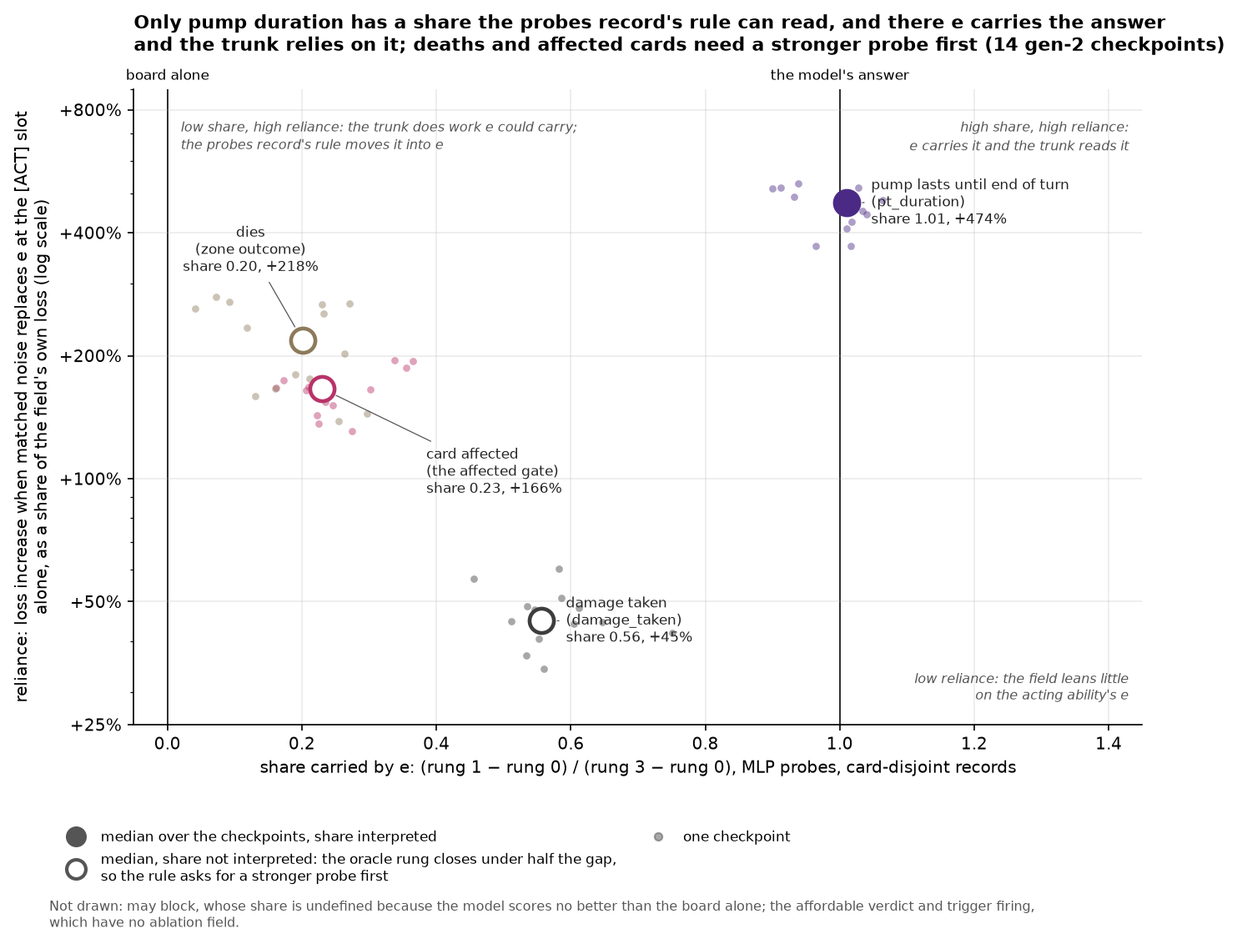
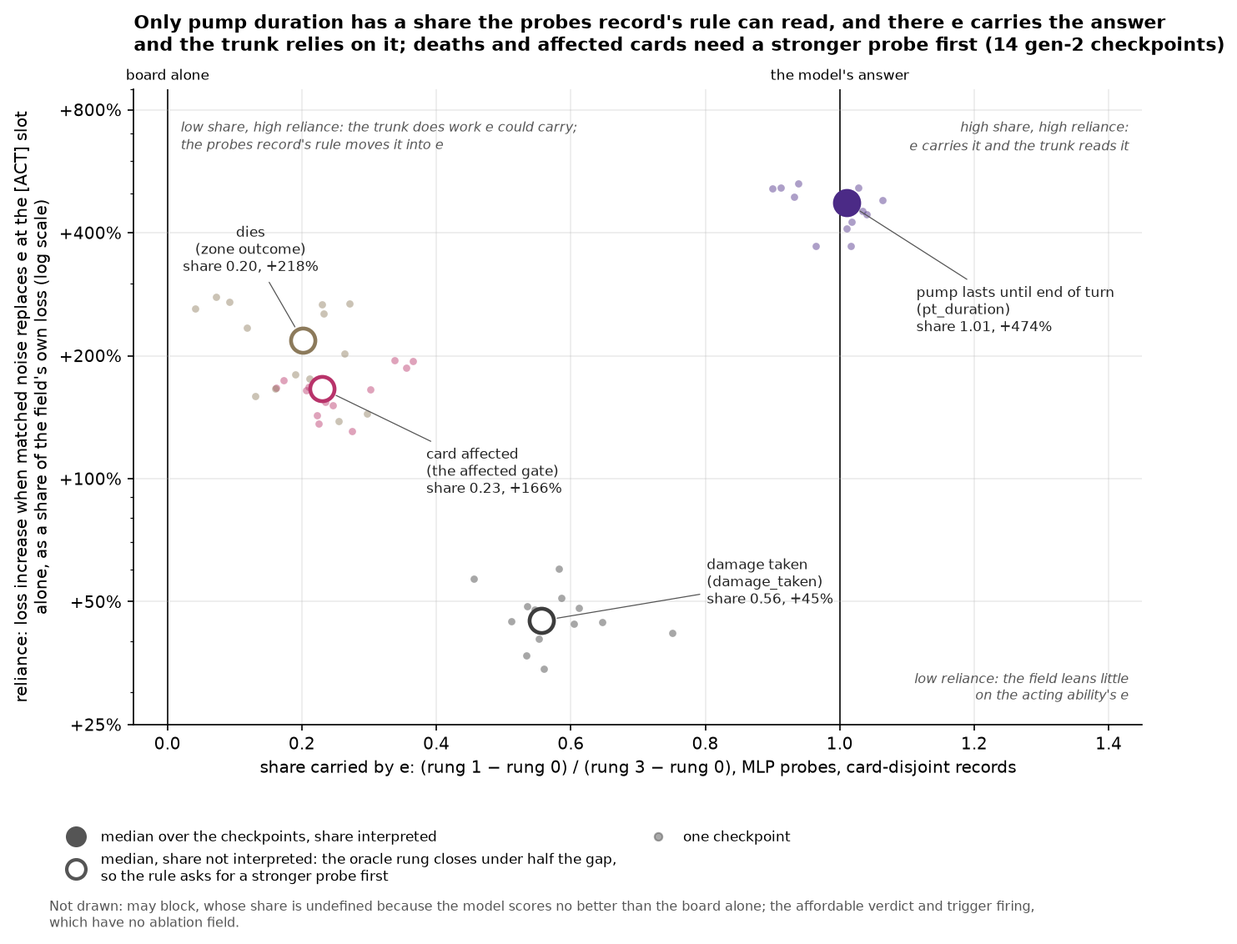
docs(effects-probes): fold the redrawn and new charts into the probes record
Captions and alt text of e-over-random, probe-ladder, evasion-grid,
target-flips, board-abilities and line-properties describe what the
redrawn charts draw; the chart key explains the fixed row heights of the
strip plots. The share-vs-reliance chart is embedded in the gen-3 section,
its caption saying why the legal-target and verdict-head questions are
absent, and its pump-duration and damage-taken labels move clear of the
checkpoint dots. The e-over-random and target-flip bullets now read off
the charts' new quantities.

Changed region(s): [[0.4653, 0.5875, 0.6824, 0.6802], [0.7134, 0.1855, 0.8685, 0.2473], [0.7444, 0.3092, 0.8375, 0.371]]

diff --git a/scripts/effect_gen2_report/make_charts.py b/scripts/effect_gen2_report/make_charts.py
@@ -2817,7 +2817,9 @@ SHARE_RELIANCE = [("pt_until_end_of_turn", "pt_duration", "pump lasts until end 
 
 
 #: Label offsets in points for the crowded medians: ``(dx, dy, ha)``.
-SHARE_LABEL_OFFSETS = {"dies": (-30, 52, "center"), "affected": (60, -48, "left")}
+SHARE_LABEL_OFFSETS = {"dies": (-30, 52, "center"), "affected": (60, -48, "left"),
+                       "pt_until_end_of_turn": (40, -62, "left"),
+                       "damage_taken": (95, 22, "left")}
 
 
 def share_vs_reliance() -> None:

diff --git a/experiments/2026-09-19-effect-knowledge-probes-design.md b/experiments/2026-09-19-effect-knowledge-probes-design.md
@@ -62,7 +62,7 @@ Continuation runs carry each arm with copies further. An A run resumes its arm a
 
 A probe is scored by AUC for a yes/no question, the chance that a true case scores above a false one, so 0.5 is chance. An amount is scored by R², the share of its variance the prediction explains, where 0 is no better than predicting the amount's mean.
 
-The charts share one key. Colour gives the width of `e`: blue 64, orange 128, green 256. A point's marker gives the stage, a triangle for an arm, a square for an A run and a circle for a B run. A curve's style gives it too, dotted for an arm, dashed for an A run and solid for a B run. A filled marker is a run's kept epoch and a hollow one its last; `B256 best` is half filled. The arms without copies are grey triangles, `e64 (earlier inputs)` a lighter grey, and gen-1 dark grey.
+The charts share one key. Colour gives the width of `e`: blue 64, orange 128, green 256. A point's marker gives the stage, a triangle for an arm, a square for an A run and a circle for a B run. A curve's style gives it too, dotted for an arm, dashed for an A run and solid for a B run. A filled marker is a run's kept epoch and a hollow one its last; `B256 best` is half filled. The arms without copies are grey triangles, `e64 (earlier inputs)` a lighter grey, and gen-1 dark grey. In a chart with one row per question, each checkpoint sits at its own fixed height within the row, the earliest stage on top; the height carries no value.
 
 ### The read-out ladder asks one question of six inputs, from the board alone to the model's own answer
 
@@ -135,7 +135,7 @@ On two board questions `e` carries the answer: how long a pump lasts and whether
 
 ![The read-out ladder for nine board questions: each rung's median and range, and each checkpoint's share with the random-vector and oracle shares marked, rows where the share is not interpreted shaded](2026-09-18-effect-model-gen2/charts/probe-ladder.png)
 
-*(a) Each rung's median over the 14 checkpoints with copies, card-disjoint records; the stroke spans the checkpoints. Yes/no questions are scored by AUC, damage taken by R² on its own axis. (b) Each checkpoint's share carried by `e`, in the shared key; the grey tick marks the median share a random vector of `e`'s width closes, and the hollow purple diamond the median share the oracle rung closes. Shaded rows are the questions whose share is not interpreted. May block has no share, because the model's answer scores no better than the board alone. Data: `probe_ladder.csv`.*
+*(a) Each rung's median over the 14 checkpoints with copies, card-disjoint records, drawn as the rung's own name; the stroke spans the checkpoints. Yes/no questions are scored by AUC, damage taken by R² on its own axis. (b) Each checkpoint's share carried by `e`, in the shared key. The grey tick labelled 1w marks the median share a random vector of `e`'s width closes, and the dashed purple tick labelled 1o the median share the oracle rung closes. Shaded rows are the questions whose share is not interpreted. May block has no share, because the model's answer scores no better than the board alone. Data: `probe_ladder.csv`.*
 
 - **What the line states, `e` carries.** How long a pump lasts turns on the script, and whether an ability is affordable turns on its cost. Rung 1 closes nine tenths or more of the gap on both at the median, with no trunk. On affordability, a random vector of `e`'s width closes nearly half the gap by itself, so `e`'s content accounts for about half of that share.
 - **On the other board questions the trunk answers, and the ladder cannot say whether `e` could.** Deaths, trigger firing, which cards are affected, target legality and damage taken all depend on the board. On each, a probe on the trunk's output reads about as much as the model's own answer, or more on damage taken, and the board plus `e` reads far less. The oracle closes a twentieth of the gap or less on deaths, affected cards and target legality, and about a seventh on triggers and damage taken. A probe on the board and the true numbers therefore stays far from the answer, and a low share may be the probe's limit rather than `e`'s. The oracle carries only the stated numbers, and it scores below rung 1 on every question but may block, where the two are level.
@@ -152,12 +152,12 @@ Gen-1 and gen-2 were probed on different corpora, so they compare by direction o
 
 `e` beats a random vector of its width by a large amount on nearly every property a line states, and by the least on the board questions the line does not settle. Rung 1 minus rung 1w is that comparison ([the width control](#a-random-vector-of-es-width-separates-what-e-holds-from-what-its-width-buys)). Among line properties, mana production is the exception. On deaths, trigger firing and block legality `e` adds a few hundredths of AUC at most, and on affected cards and target legality up to an eighth.
 
-![Rung 1 minus rung 1w per probe question and checkpoint, grouped by family and by width of e](2026-09-18-effect-model-gen2/charts/e-over-random.png)
+![Rung 1 minus rung 1w per checkpoint: the nine board questions as one marker per checkpoint sorted by median gain, and the line properties as a heatmap per checkpoint, yes/no properties and amounts in separate blocks](2026-09-18-effect-model-gen2/charts/e-over-random.png)
 
-*Each cell is (rung 1 − rung 1w) × 100 for one checkpoint, from the MLP probe. Board questions are read on card-disjoint records, line properties on held-out lines, except damage per mana (trained lines only) and the interaction pair, whether one line's event fires another's trigger (all pairs). Purple cells are gains and red cells losses; an AUC difference is coloured as twice its value, so that it shares one scale with an R² difference. A random vector's R² falls below zero, so an amount's gain can pass 100. The outlined row is deaths. Gen-1 is probed on its own corpus. Data: `probe_ladder.csv`.*
+*Every value is rung 1 minus rung 1w from the MLP probe. Top: the board questions on card-disjoint records, one marker per checkpoint in the shared key, rows sorted from the largest median gain over the gen-2 checkpoints to the smallest. Shaded rows are the three board questions whose answer the line states. Damage taken is an amount, so its gain is in R² and sits apart, below a thin divider. Bottom: the line properties on held-out lines, as (rung 1 − rung 1w) × 100 per checkpoint, except damage per mana (trained lines only) and the interaction pair, whether one line's event fires another's trigger (all pairs). The yes/no properties are AUC gains and the amounts R² gains, and each block is coloured in its own unit. Purple is a gain and red a loss. The colour reaches full strength at an AUC gain of 0.5, the largest an AUC can gain over chance, and at an R² gain of 1. A random vector's R² falls below zero, so an amount's gain can pass 100. Gen-1 is probed on its own corpus. Data: `probe_ladder.csv`.*
 
 - **Deaths do not move into `e` with width.** On deaths `e` adds at most four hundredths of AUC at widths 64 and 128, and less than nothing at width 256, where a random vector of the same width scores higher. Trigger firing gains a few hundredths at every width. Four times the width of `e` therefore does not move what decides deaths or triggers into the vector.
-- **The board questions whose answer the line states gain more.** Damage taken, pump duration and affordability all gain clearly. The damage amount, the duration and the cost are written in the script.
+- **Pump duration gains more than any board question whose answer the line does not state, and affordability does so only at width 256.** Pump duration leads them on every checkpoint. Affordability gains about as much as target legality under protection on the 64-wide and 128-wide checkpoints, and clearly more on the 256-wide ones. Damage taken, the third board question whose answer the line states, gains about three tenths of R², a unit of its own. The damage amount, the duration and the cost are written in the script.
 - **Costs and amounts gain the most, timing and side clearly, and mana production least.** The total cost, the generic cost and most coloured pips, the coloured mana symbols of a cost, gain the most. The side an effect lands on, its controller's, an opponent's or both, gains about as much as the timing and the costs that tap or sacrifice. The amount of mana a line produces swings from a large gain to a large loss between the 64-wide checkpoints.
 - **Gen-1's `e` gains far more on three properties.** On the amount of mana a line produces, whether it produces any colour, and how much a text's outcome varies across boards, gen-1's `e` beats a random vector by far more than any gen-2 checkpoint. It also beats every gen-2 checkpoint by a smaller margin on six more, among them colourless mana production and whether a change lasts until end of turn or comes as a counter. The two generations were probed on different corpora.
 - **The 128-wide and 256-wide `e` score below a random vector on colourless pips** on most checkpoints, while the 64-wide `e` gains on them.
@@ -168,9 +168,9 @@ Rung 1 minus rung 1w is also how the arms of the width sweep, gen-2's runs over 
 
 A probe reading `e` alone, with no board and no trunk, recovers whether a line taps or sacrifices nearly perfectly on every gen-2 checkpoint. On trained lines it ranks whether a line is instant speed correctly nine times in ten, and whether it is repeatable nearly always. Gen-1's `e` read whether a line sacrifices or is instant speed not far above chance on held-out lines. The width control sits near chance on every yes/no property in the chart and below zero on every amount, so the gains are content and not width.
 
-![Line properties read from e alone, trained and held-out lines, gen-1 against gen-2 checkpoints](2026-09-18-effect-model-gen2/charts/line-properties.png)
+![Line properties and the outcome spread across boards read from e alone, trained and held-out lines, gen-1 against gen-2 checkpoints](2026-09-18-effect-model-gen2/charts/line-properties.png)
 
-*Seven checkpoints in the shared key: gen-1, the three arms with copies, and the last epochs of runs B64, B128 and B256. Each segment runs from the score on trained lines (small dot), texts the model trained on, to the score on held-out lines (marker), texts it never saw. The grey tick is the same probe on a random vector of `e`'s width, on held-out lines. Data: `probe_ladder.csv` (rungs 1 and 1w, MLP, strata `trained` and `held-out`).*
+*Seven checkpoints in the shared key: gen-1, the three arms with copies, and the last epochs of runs B64, B128 and B256. Each segment runs from the score on trained lines (small dot), texts the model trained on, to the score on held-out lines (marker), texts it never saw. The grey tick is the same probe on a random vector of `e`'s width, on held-out lines. The bottom row, below the divider labelled state dependence, is the outcome spread across boards, scored by R² like the amounts ([state dependence](#e-barely-holds-how-much-a-texts-outcome-varies-from-board-to-board)). Data: `probe_ladder.csv` (rungs 1 and 1w, MLP, strata `trained` and `held-out`; the bottom row from family `state-dependence`).*
 
 Amounts transfer less well than costs, and a wider `e` does not change that. The damage amount and the total mana cost read nearly as well on held-out lines as on trained ones. Power and toughness changes read well on trained lines and poorly on held-out ones, with toughness change at a quarter of its variance or less. The 256-wide arm reads damage, cost and counters on held-out lines slightly worse than the 64-wide and 128-wide arms, and power change slightly better.
 
@@ -190,7 +190,7 @@ Training the encoder against the board was meant to leave a trace in `e` of how 
 | a random vector of `e`'s width, gen-2 | −0.42 to −0.19 | −0.38 to −0.18 |
 | a random vector of `e`'s width, gen-1 | −0.36 | −0.54 |
 
-*Gen-2 has 2,044 trained and 307 held-out lines with the label; gen-1 has 2,028 and 155. The outcome-spread row of the [`e` over a random vector](#e-adds-most-over-a-random-vector-of-its-width-on-what-a-line-states-and-next-to-nothing-on-deaths-trigger-firing-and-block-legality) chart shows the same probe as a gain over the random vector. Data: `probe_ladder.csv` (family `state-dependence`).*
+*Gen-2 has 2,044 trained and 307 held-out lines with the label; gen-1 has 2,028 and 155. The bottom row of the [line-properties chart](#gen-2s-e-holds-whether-a-line-taps-or-sacrifices-almost-perfectly-and-its-timing-and-most-of-its-amounts-well) draws the same probe for gen-1 and six gen-2 checkpoints, from trained to held-out lines. The outcome-spread row of the [`e` over a random vector](#e-adds-most-over-a-random-vector-of-its-width-on-what-a-line-states-and-next-to-nothing-on-deaths-trigger-firing-and-block-legality) chart shows it as a gain over the random vector. Data: `probe_ladder.csv` (family `state-dependence`).*
 
 The outcome-spread probe was built to test the claim the model design rests on: that training the encoder against the board yields a better `e` than training it on text alone. On gen-2 it finds no support for that claim.
 
@@ -210,9 +210,9 @@ The ablation shows which `e` the trunk uses, not what the trunk works out from i
 
 Where a static the snapshot does not list keeps a creature from attacking, every checkpoint's attack-legality loss rises well above its loss with no restriction. The snapshot gives each permanent its spell and activated abilities as lines in its card block, and nothing else. A permanent's statics, triggers and replacements reach the model only through what they have already done to the board: an anthem's +1/+1 is in the toughness, a granted keyword is in the flags. A Pacifism shows the model an enchantment attached to a creature and no text, and a Rest in Peace an enchantment that does nothing. The board-abilities ablation pairs records where an unlisted line decides the answer with a control of the same kind where none does, 600 records per subset ([the subsets](#the-card-blocks-hold-no-static-trigger-or-replacement-so-a-second-ablation-measures-what-their-absence-costs)).
 
-![Each checkpoint's loss on restricted records divided by its loss on the unrestricted control, per restriction, log scale](2026-09-18-effect-model-gen2/charts/board-abilities.png)
+![Each checkpoint's loss on restricted records divided by its loss on the unrestricted control, per restriction, log scale, with the two keyword-restriction controls shaded apart](2026-09-18-effect-model-gen2/charts/board-abilities.png)
 
-*Each marker is one checkpoint's loss on the field named, on records where the restriction or line is present, divided by its loss on the unrestricted control of the same kind. A marker right of ×1 means the unlisted line raises the model's loss. The range at the right spans the checkpoints. Data: `board_abilities.csv`.*
+*Each marker is one checkpoint's loss on the field named, on records where the restriction or line is present, divided by its loss on the unrestricted control of the same kind. A marker right of ×1 means the unlisted line raises the model's loss. The two shaded keyword rows are controls: the card's keyword flags show those restrictions to the model. The range at the right spans the checkpoints. Data: `board_abilities.csv`.*
 
 - **Attack legality is the clearest case.** Where a static that is not a keyword keeps a creature from attacking, as Pacifism does, the loss is between one and a half and four and a half times the unrestricted loss. Every checkpoint's restricted loss sits above every checkpoint's unrestricted one. A keyword restriction, which the card's keyword flags carry, is the easiest case of the three.
 - **Block legality follows the same order with smaller gaps.** On the arms a static restriction costs about as much as no restriction, and on the continuation runs up to about twice as much.
@@ -226,9 +226,9 @@ Every gen-2 checkpoint lowers the predicted chance of a block when the attacker 
 
 The absolute level of the prediction is not a probability to read at face value. Even with no keyword and no trait, where every block is legal, arm `e64-lethality` predicts about one in ten, run B64's last epoch about one in three and run B256's last epoch about one in two. The model learned that level from block labels that mark many legal blocks as forbidden ([the read-out ladder](#e-alone-carries-pump-duration-and-affordability-and-the-trunk-answers-the-other-board-questions)). The comparisons below are therefore within each checkpoint: how much a blocker trait lifts the prediction against an attacker with the keyword, against how much it lifts it against an attacker without one. These rankings within a row compare edits of one record and are less exposed to the labels than the absolute level.
 
-![Heatmap of the lift each blocker trait gives the predicted chance of a block, per attacker keyword, median over 17 checkpoints, cells the rule allows marked](2026-09-18-effect-model-gen2/charts/evasion-grid.png)
+![Heatmap of the lift each blocker trait gives the predicted chance of a block, per attacker keyword, median over 17 checkpoints, coloured by the lift against the no-keyword row's in the same column, cells the rule allows marked](2026-09-18-effect-model-gen2/charts/evasion-grid.png)
 
-*Each cell is the median over the 17 gen-2 checkpoints of the lift: the predicted chance of a block with the blocker's trait, divided by the chance with no trait, against the same attacker. The top row is the reference, the lift against an attacker with no keyword. Under each lift, n/17 counts the checkpoints where the trait lifts the prediction more against that keyword than against a plain attacker. A black corner marks a block the rule allows, and a hollow corner a block it allows only when the attacker is black too. Data: `evasion_grid.csv`.*
+*Each cell's text is the median over the 17 gen-2 checkpoints of the lift: the predicted chance of a block with the blocker's trait, divided by the chance with no trait, against the same attacker. The top row is the reference, the lift against an attacker with no keyword. The colour compares each cell with the reference. It is the median over checkpoints of the cell's lift divided by the top row's lift in the same column, on a log scale from ×0.5 to ×8. The top row is therefore neutral. Purple marks a trait that lifts the prediction more against the keyword than against a plain attacker, and red one that lifts it less. Under each lift, n/17 counts the checkpoints where the trait lifts the prediction more against that keyword than against a plain attacker. A black corner marks a block the rule allows, and a hollow corner a block it allows only when the attacker is black too. Data: `evasion_grid.csv`.*
 
 - **Horsemanship and fear are paired with their answers.** A horsemanship blocker lifts the prediction several times more against a horsemanship attacker than against a plain one, and an artifact or black blocker does the same against fear, on every checkpoint.
 - **Intimidate is read as fear.** An artifact blocker answers it, as the rule says. A black blocker answers it too, which the rule allows only when the attacker is black as well. A blocker that shares the attacker's colour, the answer the rule names, barely registers.
@@ -261,13 +261,13 @@ On real targeting decisions the model separates legal targets from illegal ones 
 
 The illegal targets on a real board are mostly easy: a land when the restriction asks for a creature, or the acting player's own creature when it asks for an opponent's. A flip asks the harder question. It takes a legal target of a restriction with a single condition and breaks exactly that condition, which by the rule makes it illegal.
 
-![Predicted legality of each flip's targets before and after the flip, one marker per checkpoint](2026-09-18-effect-model-gen2/charts/target-flips.png)
+![Change in the predicted legality of each flip's targets, after the flip minus before, one marker per checkpoint, against the rule's change of −1](2026-09-18-effect-model-gen2/charts/target-flips.png)
 
-*For each flip, each checkpoint's mean predicted legality of the targets before the flip (grey ticks) and after it (markers, in the shared key); the arrow joins the medians. By the rule every target is legal before the flip and illegal after it. Rows with fewer than 20 targets are greyed as too few to weigh. Data: `target_flips.csv`.*
+*For each flip, each checkpoint's change in the mean predicted legality of the targets, after the flip minus before, in the shared key; the grey bar is the median. By the rule every target is legal before the flip and illegal after it, a change of −1. Rows with fewer than 20 targets are drawn faint as too few to weigh. Data: `target_flips.csv`, which also holds each checkpoint's legality before and after the flip.*
 
-- **Control is learned.** A target of "target creature you control" handed to the opponent falls from near certain to one in four or less on every checkpoint but `e64 (earlier inputs)`, which stops at about two in five.
-- **A creature that loses its creature type stays a legal target of "target creature".** The prediction barely moves on 1,380 targets. The edit leaves the permanent its power, toughness and combat status, so the model may read creature-ness from those rather than from the type line. Either way, the model does not check the condition the restriction states. Lands that lose the land type barely move either, except on `e64`, where they fall by a third.
-- **The other flips are too few to weigh.** Artifacts that lose the artifact type fall by about a third, on 8 targets. Enchantments that lose the enchantment type rest on 7 targets, and the opponent's creatures handed to the acting player on 14, which the model already doubted before the flip.
+- **Control is learned.** A target of "target creature you control" handed to the opponent loses between two thirds and nine tenths of its predicted legality on every checkpoint but `e64 (earlier inputs)`, which loses under half.
+- **A creature that loses its creature type stays a legal target of "target creature".** The prediction barely moves on 1,380 targets. The edit leaves the permanent its power, toughness and combat status, so the model may read creature-ness from those rather than from the type line. Either way, the model does not check the condition the restriction states. Lands that lose the land type barely move either, except on `e64`, where they lose three tenths of their predicted legality.
+- **The other flips are too few to weigh.** The predicted legality of artifacts that lose the artifact type drops by about a third at the median, on 8 targets. Enchantments that lose the enchantment type rest on 7 targets, and the opponent's creatures handed to the acting player on 14, which the model already doubted before the flip.
 
 No restriction in the sample states `nonLegendary` alone, so the legendary flip did not run.
 
@@ -406,7 +406,9 @@ Applied to the board questions, the design's rule for gen-3 finds two already in
 
 *Card-disjoint records, MLP probes, medians over the 14 checkpoints with copies. The loss rise is the increase in the field's loss over the validation samples when noise matched to the vectors' mean and covariance replaces `e` at the `[ACT]` slot alone, divided by the field's loss with the true `e`. The legal-target questions read the affected gate, as card affected does. The ablation scores only the per-entity fields, so the questions the verdict head answers have no loss rise. Data: `probe_ladder.csv`, `ablation.csv`.*
 
-<!-- embed: share-vs-reliance -->
+![Scatter of the share e carries against the trunk's reliance on the acting ability's e, one cloud of checkpoints and one median marker per board question, hollow where the oracle rung leaves the share uninterpreted](2026-09-18-effect-model-gen2/charts/share-vs-reliance.png)
+
+*One cloud per board question: a small dot for each of the 14 checkpoints with copies, and a large marker at the medians. The share carried by `e` is the read-out ladder's (rung 1 − rung 0) / (rung 3 − rung 0), MLP probes on card-disjoint records. Reliance is the table's loss rise with noise at `[ACT]`, drawn as a percentage of the field's own loss on a log scale. A hollow marker is a question whose share is not interpreted, because the oracle rung closes under half of the gap. The chart draws the four board questions that each have an output field of their own. The two legal-target questions read the affected gate, as card affected does, so their reliance is card affected's, and their shares are in the table. May block has no share, and the ablation does not score the verdict head that answers affordability and trigger firing. The corner notes name what each region means under the design's rule, which fixes no cut-off between them. Data: `probe_ladder.csv`, `ablation.csv` (replacement `noise`, scope `act`).*
 
 - **Pump duration and affordability already live in `e`, and gen-3 has nothing to move there.** Both shares pass nine tenths. The trunk leans on the acting `e` for pump duration more than for any other question in the table: noise at `[ACT]` adds nearly five times the field's own loss. Affordability's reliance is not measured, and a random vector of `e`'s width closes nearly half of its share by itself.
 - **Deaths, affected cards, target legality, trigger firing and damage taken need a stronger probe before gen-3 can act on their shares.** On each, the oracle closes about a seventh of the gap or less, so the probe rather than `e` may be the limit. Deaths and affected cards have the lowest shares, and noise at `[ACT]` adds more than one and a half times the field's own loss on affected cards and more than twice on deaths. A low share with high reliance is the pattern the rule answers by moving work into `e`, through auxiliary heads that read `e` alone or a thinner trunk. Deaths and affected cards are therefore gen-3's first candidates once a stronger probe confirms their shares. The high reliance may also mean only that the trunk needs the acting `e` to know which ability is acting, which the ablation cannot tell apart from using its content. A wider `e` is not the route for deaths, since four times the width did not move them into `e`. The suite's two deeper reads, the per-layer view and method C, never ran, so no stronger probe exists yet.
